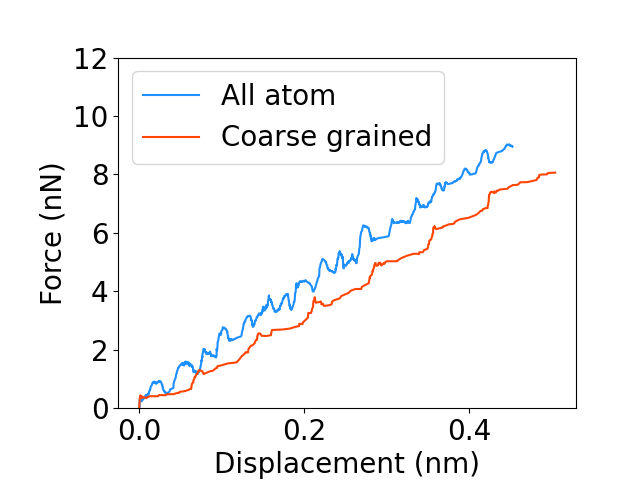
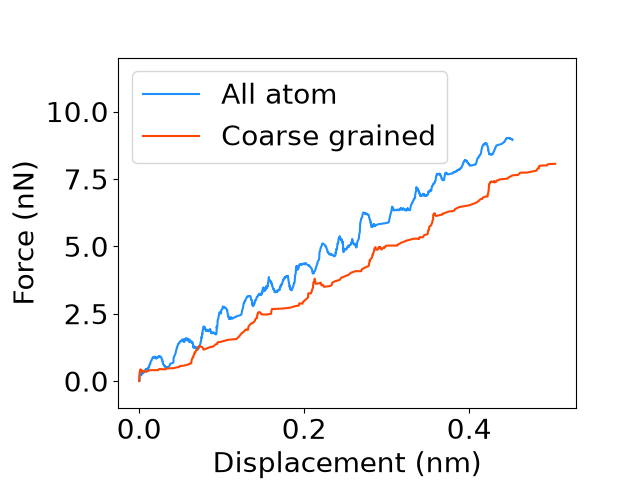
Update ylim of bending force-displacement curves

diff --git a/data_additional_inspections/bending/plot_sorted_smoothed_force-displacement_with_reference.py b/data_additional_inspections/bending/plot_sorted_smoothed_force-displacement_with_reference.py
@@ -51,7 +51,7 @@ x_axis_offset = 0.06
 y_axis_offset = 0.04
 matplotlib.pyplot.gca().set_position((plot_box_position.x0+x_axis_offset,plot_box_position.y0+y_axis_offset,plot_box_position.width-x_axis_offset,plot_box_position.height-y_axis_offset))
 
-matplotlib.pyplot.ylim(0.0, 12.0)
+matplotlib.pyplot.ylim(-1.0, 12.0)
 
 matplotlib.pyplot.xlabel('Displacement (nm)', fontsize=20)
 matplotlib.pyplot.ylabel('Force (nN)', fontsize=20)
